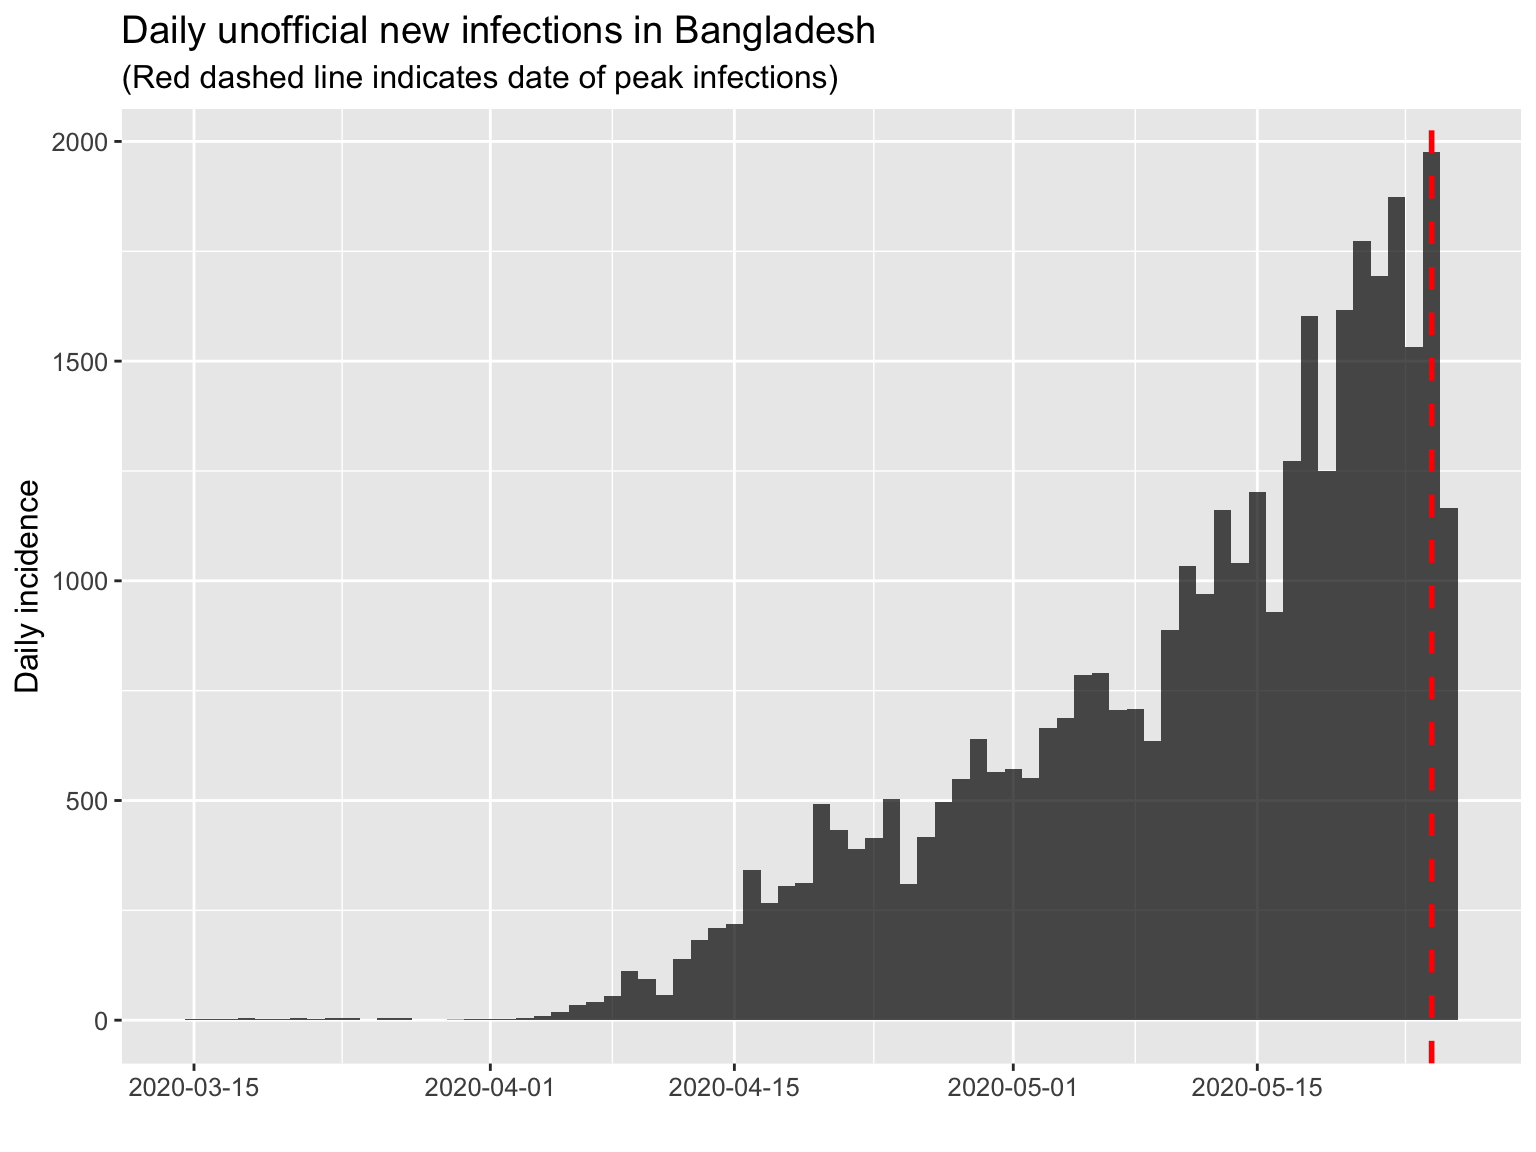
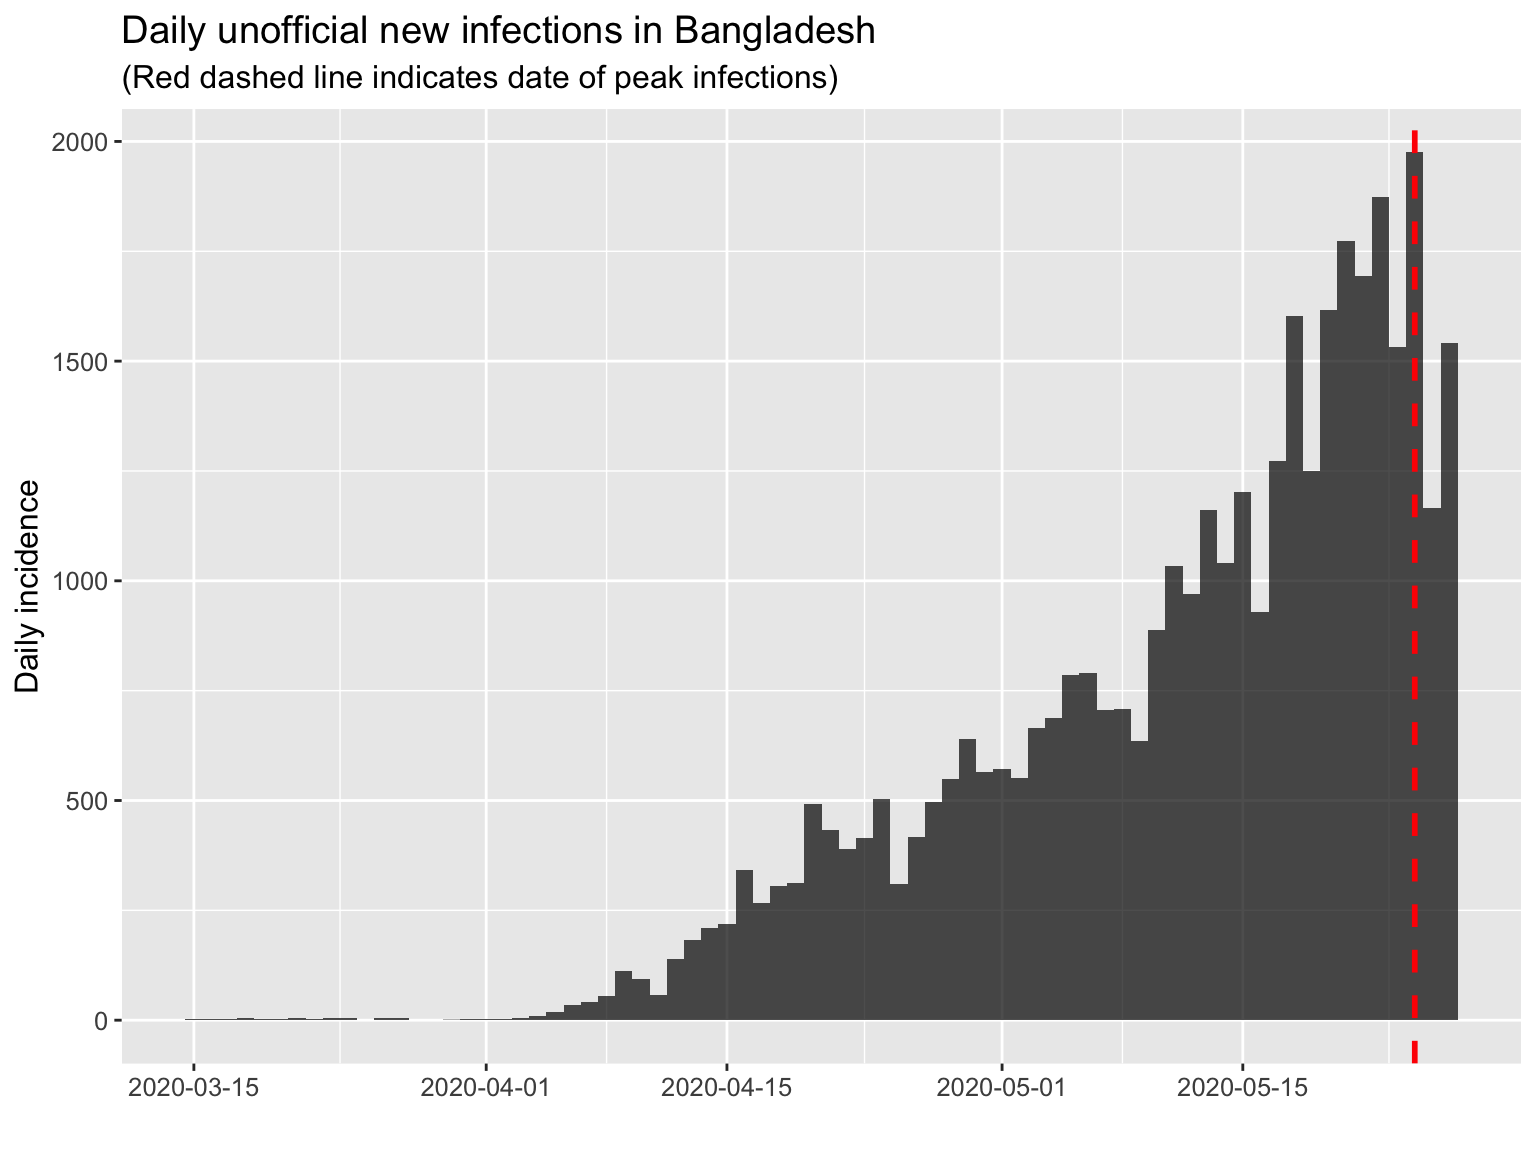
morning data refresh

diff --git a/_book/bangladesh.html b/_book/bangladesh.html
@@ -24,7 +24,7 @@
 <meta name="author" content="Enayetur Raheem, Ph.D." />
 
 
-<meta name="date" content="2020-05-26" />
+<meta name="date" content="2020-05-27" />
 
   <meta name="viewport" content="width=device-width, initial-scale=1" />
   <meta name="apple-mobile-web-app-capable" content="yes" />
@@ -221,13 +221,13 @@ code > span.in { color: #60a0b0; font-weight: bold; font-style: italic; } /* Inf
 <p><img src="covid19_files/figure-html/covid19-bangladesh-epidemic-curve-peak-1.png" width="768" /></p>
 <p>We fit a log linear model to estimate the doubling time (growh phase) and halving time (decline phase, when that happens). The estimated fitted line (solid line) with 95% confidence interval (dotten lines) are superimposed on the epidemic curve below.</p>
 <p><img src="covid19_files/figure-html/covid19-bangladesh-epidemic-curve-fitted-1.png" width="768" /></p>
-<p>The current doubling time as of 2020-05-26 is 6.6 days with a 95% confidence interval of (6, 7.3) days.</p>
+<p>The current doubling time as of 2020-05-27 is 6.7 days with a 95% confidence interval of (6.1, 7.4) days.</p>
 <div id="estimating-the-overall-reproduction-number" class="section level3">
 <h3><span class="header-section-number">3.1.1</span> Estimating the Overall Reproduction Number</h3>
 <p>The log-linear model estimates the <span class="math inline">\(R_0\)</span> as follows:</p>
 <p><img src="covid19_files/figure-html/unnamed-chunk-15-1.png" width="672" /></p>
 <pre><code>##    Min. 1st Qu.  Median    Mean 3rd Qu.    Max. 
-##   1.733   1.937   1.974   1.975   2.011   2.118</code></pre>
+##   1.720   1.920   1.957   1.958   1.993   2.098</code></pre>
 </div>
 <div id="estimating-the-instantaneous-reproduction-number-r_e" class="section level3">
 <h3><span class="header-section-number">3.1.2</span> Estimating the Instantaneous Reproduction Number (<span class="math inline">\(R_e\)</span>)</h3>
@@ -252,7 +252,7 @@ bd_res_uncertain_si &lt;-<span class="st"> </span>
 <p><img src="covid19_files/figure-html/unnamed-chunk-17-1.png" width="672" /></p>
 <table class="table" style="margin-left: auto; margin-right: auto;">
 <caption>
-<span id="tab:unnamed-chunk-18">Table 3.1: </span>Instantaneous Effective Reproduction Number by Week as of 2020-05-26
+<span id="tab:unnamed-chunk-18">Table 3.1: </span>Instantaneous Effective Reproduction Number by Week as of 2020-05-29
 </caption>
 <thead>
 <tr>
@@ -281,29 +281,6 @@ Quantile.0.975(R)
 <tbody>
 <tr>
 <td style="text-align:left;">
-67
-</td>
-<td style="text-align:right;">
-68
-</td>
-<td style="text-align:right;">
-74
-</td>
-<td style="text-align:right;">
-1.414348
-</td>
-<td style="text-align:right;">
-0.1411358
-</td>
-<td style="text-align:right;">
-1.141004
-</td>
-<td style="text-align:right;">
-1.647848
-</td>
-</tr>
-<tr>
-<td style="text-align:left;">
 68
 </td>
 <td style="text-align:right;">
@@ -313,16 +290,16 @@ Quantile.0.975(R)
 75
 </td>
 <td style="text-align:right;">
-1.452712
+1.452659
 </td>
 <td style="text-align:right;">
-0.1457256
+0.1459308
 </td>
 <td style="text-align:right;">
-1.175677
+1.175726
 </td>
 <td style="text-align:right;">
-1.698281
+1.699872
 </td>
 </tr>
 <tr>
@@ -336,16 +313,16 @@ Quantile.0.975(R)
 76
 </td>
 <td style="text-align:right;">
-1.446664
+1.446622
 </td>
 <td style="text-align:right;">
-0.1478694
+0.1480280
 </td>
 <td style="text-align:right;">
-1.159018
+1.157236
 </td>
 <td style="text-align:right;">
-1.696041
+1.696061
 </td>
 </tr>
 <tr>
@@ -359,16 +336,16 @@ Quantile.0.975(R)
 77
 </td>
 <td style="text-align:right;">
-1.497374
+1.497089
 </td>
 <td style="text-align:right;">
-0.1548979
+0.1548286
 </td>
 <td style="text-align:right;">
-1.196918
+1.196132
 </td>
 <td style="text-align:right;">
-1.759644
+1.759490
 </td>
 </tr>
 <tr>
@@ -382,16 +359,16 @@ Quantile.0.975(R)
 78
 </td>
 <td style="text-align:right;">
-1.448227
+1.448011
 </td>
 <td style="text-align:right;">
-0.1546922
+0.1548570
 </td>
 <td style="text-align:right;">
-1.139900
+1.138804
 </td>
 <td style="text-align:right;">
-1.705589
+1.706174
 </td>
 </tr>
 <tr>
@@ -405,16 +382,16 @@ Quantile.0.975(R)
 79
 </td>
 <td style="text-align:right;">
-1.414070
+1.414018
 </td>
 <td style="text-align:right;">
-0.1520992
+0.1521237
 </td>
 <td style="text-align:right;">
-1.122924
+1.123156
 </td>
 <td style="text-align:right;">
-1.669734
+1.669231
 </td>
 </tr>
 <tr>
@@ -428,28 +405,51 @@ Quantile.0.975(R)
 80
 </td>
 <td style="text-align:right;">
-1.328193
+1.328242
 </td>
 <td style="text-align:right;">
-0.1406279
+0.1407211
 </td>
 <td style="text-align:right;">
-1.070285
+1.070104
 </td>
 <td style="text-align:right;">
-1.568464
+1.568726
+</td>
+</tr>
+<tr>
+<td style="text-align:left;">
+74
+</td>
+<td style="text-align:right;">
+75
+</td>
+<td style="text-align:right;">
+81
+</td>
+<td style="text-align:right;">
+1.252348
+</td>
+<td style="text-align:right;">
+0.1244791
+</td>
+<td style="text-align:right;">
+1.041307
+</td>
+<td style="text-align:right;">
+1.474096
 </td>
 </tr>
 </tbody>
 </table>
-<p>The effective reproduction number based on the last week’s incidences show an average of 1.33 with a 95% confidence interval (1.07, 1.57).</p>
+<p>The effective reproduction number based on the last week’s incidences show an average of 1.25 with a 95% confidence interval (1.04, 1.47).</p>
 </div>
 <div id="cumulative-deaths-official-and-unofficial" class="section level3">
 <h3><span class="header-section-number">3.1.4</span> Cumulative Deaths (official and unofficial)</h3>
 <p><img src="covid19_files/figure-html/covid19-bangladesh-deaths-1.png" width="768" /></p>
 <table class="table" style="margin-left: auto; margin-right: auto;">
 <caption>
-<span id="tab:unnamed-chunk-19">Table 3.2: </span>Total number of deaths as of 2020-05-26
+<span id="tab:unnamed-chunk-19">Table 3.2: </span>Total number of deaths as of 2020-05-27
 </caption>
 <thead>
 <tr>
@@ -520,15 +520,15 @@ Pakistan
 </tr>
 <tr>
 <td style="text-align:left;">
-Bangladesh
+Bangladesh(unoff)
 </td>
 <td style="text-align:right;">
-36751
+38292
 </td>
 </tr>
 <tr>
 <td style="text-align:left;">
-Bangladesh(unoff)
+Bangladesh
 </td>
 <td style="text-align:right;">
 36751

diff --git a/_book/projection.html b/_book/projection.html
@@ -24,7 +24,7 @@
 <meta name="author" content="Enayetur Raheem, Ph.D." />
 
 
-<meta name="date" content="2020-05-26" />
+<meta name="date" content="2020-05-27" />
 
   <meta name="viewport" content="width=device-width, initial-scale=1" />
   <meta name="apple-mobile-web-app-capable" content="yes" />
@@ -214,7 +214,7 @@ code > span.in { color: #60a0b0; font-weight: bold; font-style: italic; } /* Inf
             <section class="normal" id="section-">
 <div id="projection" class="section level1">
 <h1><span class="header-section-number">Report 4</span> Projections</h1>
-<p><strong>Report last updated:</strong> 2020-05-26</p>
+<p><strong>Report last updated:</strong> 2020-05-27</p>
 <ul>
 <li><p>In this udpate, second round of prjections (Run 2) have been added. Please scroll down to find the projections. As usual, the last two current values were not used for fitting the model. Also, the model is conservative/pessimistic i.e., it slightly overestimates new cases.</p></li>
 <li><p>In addition to that, a new paramter to control the <code>run_date</code> was added to the <code>fit_seir()</code> function. See the code for more details.</p></li>

diff --git a/_book/world.html b/_book/world.html
@@ -24,7 +24,7 @@
 <meta name="author" content="Enayetur Raheem, Ph.D." />
 
 
-<meta name="date" content="2020-05-26" />
+<meta name="date" content="2020-05-27" />
 
   <meta name="viewport" content="width=device-width, initial-scale=1" />
   <meta name="apple-mobile-web-app-capable" content="yes" />
@@ -216,7 +216,7 @@ code > span.in { color: #60a0b0; font-weight: bold; font-style: italic; } /* Inf
 <h1><span class="header-section-number">Report 1</span> World</h1>
 <div id="incidence-recovery-death" class="section level2">
 <h2><span class="header-section-number">1.1</span> Daily Incidence, Recovery, Deaths</h2>
-<p><strong>Report last updated:</strong> 2020-05-26</p>
+<p><strong>Report last updated:</strong> 2020-05-27</p>
 <p><strong>Data last refreshed:</strong> : 2020-05-26</p>
 <p><img src="covid19_files/figure-html/global-incidence-recovery-deaths-1.png" width="768" /></p>
 </div>

diff --git a/_book/stories.html b/_book/stories.html
@@ -24,7 +24,7 @@
 <meta name="author" content="Enayetur Raheem, Ph.D." />
 
 
-<meta name="date" content="2020-05-26" />
+<meta name="date" content="2020-05-27" />
 
   <meta name="viewport" content="width=device-width, initial-scale=1" />
   <meta name="apple-mobile-web-app-capable" content="yes" />
@@ -214,7 +214,7 @@ code > span.in { color: #60a0b0; font-weight: bold; font-style: italic; } /* Inf
             <section class="normal" id="section-">
 <div id="stories" class="section level1">
 <h1><span class="header-section-number">Report 6</span> Stories</h1>
-<p><strong>Report last updated:</strong> 2020-05-26</p>
+<p><strong>Report last updated:</strong> 2020-05-27</p>
 <div id="rumi-ahmed" class="section level2">
 <h2><span class="header-section-number">6.1</span> Rumi Ahmed</h2>
 <div id="april-7-2020-via-facebook" class="section level3">

diff --git a/_book/usa.html b/_book/usa.html
@@ -24,7 +24,7 @@
 <meta name="author" content="Enayetur Raheem, Ph.D." />
 
 
-<meta name="date" content="2020-05-26" />
+<meta name="date" content="2020-05-27" />
 
   <meta name="viewport" content="width=device-width, initial-scale=1" />
   <meta name="apple-mobile-web-app-capable" content="yes" />
@@ -214,7 +214,7 @@ code > span.in { color: #60a0b0; font-weight: bold; font-style: italic; } /* Inf
             <section class="normal" id="section-">
 <div id="usa" class="section level1">
 <h1><span class="header-section-number">Report 2</span> USA</h1>
-<p><strong>Report last updated:</strong> 2020-05-26</p>
+<p><strong>Report last updated:</strong> 2020-05-27</p>
 <p><strong>Data last refreshed:</strong> : 2020-05-26</p>
 <div id="us-overall" class="section level2">
 <h2><span class="header-section-number">2.1</span> Overall trend</h2>

diff --git a/_book/index.html b/_book/index.html
@@ -24,7 +24,7 @@
 <meta name="author" content="Enayetur Raheem, Ph.D." />
 
 
-<meta name="date" content="2020-05-26" />
+<meta name="date" content="2020-05-27" />
 
   <meta name="viewport" content="width=device-width, initial-scale=1" />
   <meta name="apple-mobile-web-app-capable" content="yes" />
@@ -215,7 +215,7 @@ code > span.in { color: #60a0b0; font-weight: bold; font-style: italic; } /* Inf
 <div id="header">
 <h1 class="title">COVID-19 Live Report</h1>
 <p class="author"><em>Enayetur Raheem, Ph.D.</em></p>
-<p class="date"><em>2020-05-26</em></p>
+<p class="date"><em>2020-05-27</em></p>
 </div>
 <div id="about-this-report" class="section level1 unnumbered">
 <h1>About this report</h1>

diff --git a/_book/references.html b/_book/references.html
@@ -24,7 +24,7 @@
 <meta name="author" content="Enayetur Raheem, Ph.D." />
 
 
-<meta name="date" content="2020-05-26" />
+<meta name="date" content="2020-05-27" />
 
   <meta name="viewport" content="width=device-width, initial-scale=1" />
   <meta name="apple-mobile-web-app-capable" content="yes" />

diff --git a/_book/resources.html b/_book/resources.html
@@ -24,7 +24,7 @@
 <meta name="author" content="Enayetur Raheem, Ph.D." />
 
 
-<meta name="date" content="2020-05-26" />
+<meta name="date" content="2020-05-27" />
 
   <meta name="viewport" content="width=device-width, initial-scale=1" />
   <meta name="apple-mobile-web-app-capable" content="yes" />

diff --git a/_book/scipubs.html b/_book/scipubs.html
@@ -24,7 +24,7 @@
 <meta name="author" content="Enayetur Raheem, Ph.D." />
 
 
-<meta name="date" content="2020-05-26" />
+<meta name="date" content="2020-05-27" />
 
   <meta name="viewport" content="width=device-width, initial-scale=1" />
   <meta name="apple-mobile-web-app-capable" content="yes" />

diff --git a/_book/trials.html b/_book/trials.html
@@ -24,7 +24,7 @@
 <meta name="author" content="Enayetur Raheem, Ph.D." />
 
 
-<meta name="date" content="2020-05-26" />
+<meta name="date" content="2020-05-27" />
 
   <meta name="viewport" content="width=device-width, initial-scale=1" />
   <meta name="apple-mobile-web-app-capable" content="yes" />
